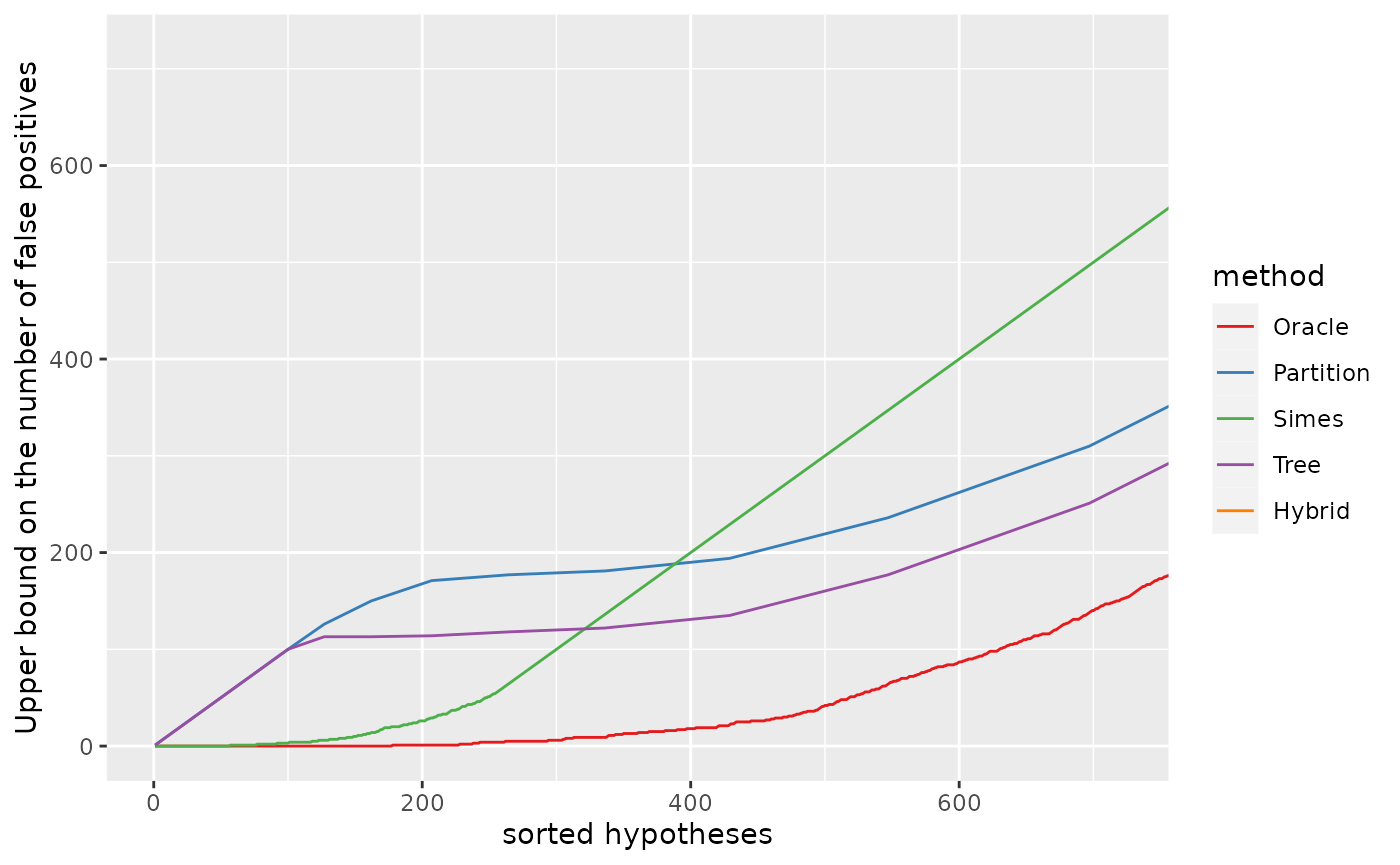
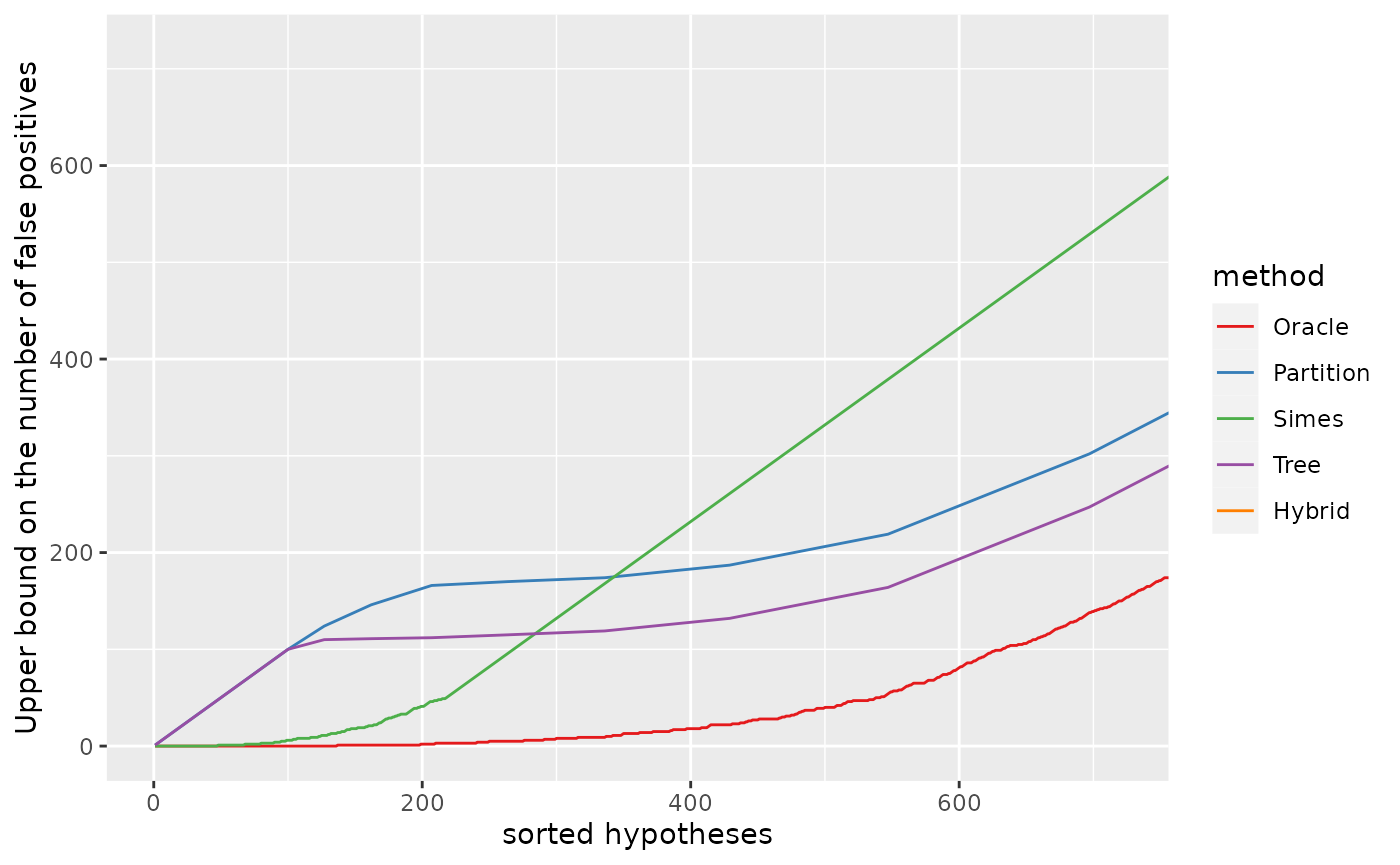
Built site for sansSouci: 0.12.4@8a14cd8

diff --git a/articles/post-hoc_differential-expression_RNAseq.html b/articles/post-hoc_differential-expression_RNAseq.html
@@ -170,9 +170,9 @@
 <div class="sourceCode" id="cb8"><pre class="downlit sourceCode r">
 <code class="sourceCode R"><span class="va">conf_bounds</span> <span class="op">&lt;-</span> <span class="fu"><a href="https://rdrr.io/r/base/lapply.html">lapply</a></span><span class="op">(</span><span class="va">resList</span>, <span class="va">predict</span>, all <span class="op">=</span> <span class="cn">TRUE</span><span class="op">)</span>
 <span class="va">cols</span> <span class="op">&lt;-</span> <span class="fu"><a href="https://rdrr.io/r/base/c.html">c</a></span><span class="op">(</span><span class="st">"black"</span>, <span class="st">"darkgray"</span><span class="op">)</span>
-<span class="fu"><a href="../reference/plotConfCurve.html">plotConfCurve</a></span><span class="op">(</span><span class="va">conf_bounds</span>, xmax <span class="op">=</span> <span class="fl">5000</span>, cols <span class="op">=</span> <span class="va">cols</span><span class="op">)</span> <span class="op">+</span>
-  <span class="fu"><a href="https://ggplot2.tidyverse.org/reference/geom_path.html">geom_line</a></span><span class="op">(</span>size <span class="op">=</span> <span class="fl">1.5</span><span class="op">)</span></code></pre></div>
-<p><img src="post-hoc_differential-expression_RNAseq_files/figure-html/conf-env-plot-1.png" width="768"></p>
+<span class="va">p</span> <span class="op">&lt;-</span> <span class="fu"><a href="../reference/plotConfCurve.html">plotConfCurve</a></span><span class="op">(</span><span class="va">conf_bounds</span>, xmax <span class="op">=</span> <span class="fl">5000</span>, cols <span class="op">=</span> <span class="va">cols</span><span class="op">)</span> <span class="op">+</span> 
+  <span class="fu"><a href="https://ggplot2.tidyverse.org/reference/geom_path.html">geom_line</a></span><span class="op">(</span>size <span class="op">=</span> <span class="fl">1.5</span><span class="op">)</span>
+<span class="co"># ggsave(p, file = "conf-curve.pdf", width = 6, height = 4)</span></code></pre></div>
 <p>This plot can be interpreted as follows: among the 2000 most significant genes, the number of truly differentially expressed genes is at least 1682 (right panel). Equivalently, the FDP among these 2000 genes is at most 0.16 (left panel).</p>
 <p>The dashed gray curve is obtained by the parametric Simes method introduced by <span class="citation">Goeman and Solari (2011)</span>. The comparison between the two curves illustrates the gain in power obtained by using permutations methods to adapt to the dependence between genes. In this example, the parametric Simes method gives the following guarantees: among the 2000 most significant genes, the number of truly differentially expressed genes is at least 1437 (right panel). Equivalently, the FDP among these 2000 genes is at most 0.29 (left panel).</p>
 <div id="differentially-expressed-genes" class="section level2">
@@ -191,11 +191,9 @@
 <span class="va">size</span> <span class="op">&lt;-</span> <span class="fl">1.5</span>
 <span class="va">p</span> <span class="op">&lt;-</span> <span class="fu"><a href="../reference/plotConfCurve.html">plotConfCurve</a></span><span class="op">(</span><span class="va">FDP</span>, xmax <span class="op">=</span> <span class="fl">2.5</span><span class="op">*</span><span class="va">n_DEG</span>, col <span class="op">=</span> <span class="va">cols</span><span class="op">)</span> <span class="op">+</span>
   <span class="fu"><a href="https://ggplot2.tidyverse.org/reference/geom_abline.html">geom_hline</a></span><span class="op">(</span>yintercept <span class="op">=</span> <span class="va">q</span>, linetype <span class="op">=</span> <span class="st">"dashed"</span>, size <span class="op">=</span> <span class="va">size</span><span class="op">)</span> <span class="op">+</span>
-  <span class="fu"><a href="https://ggplot2.tidyverse.org/reference/geom_abline.html">geom_vline</a></span><span class="op">(</span>xintercept <span class="op">=</span> <span class="va">n_DEG</span>, linetype <span class="op">=</span> <span class="st">"dotted"</span>, col <span class="op">=</span> <span class="va">cols</span>, size <span class="op">=</span> <span class="va">size</span><span class="op">)</span>
-<span class="va">p</span> <span class="op">+</span> <span class="fu"><a href="https://ggplot2.tidyverse.org/reference/geom_path.html">geom_line</a></span><span class="op">(</span>size <span class="op">=</span> <span class="va">size</span><span class="op">)</span></code></pre></div>
-<p><img src="post-hoc_differential-expression_RNAseq_files/figure-html/post-hoc-FDP-control-1.png" width="768"></p>
-<div class="sourceCode" id="cb10"><pre class="downlit sourceCode r">
-<code class="sourceCode R"><span class="fu"><a href="https://ggplot2.tidyverse.org/reference/ggsave.html">ggsave</a></span><span class="op">(</span><span class="va">p</span>, file <span class="op">=</span> <span class="st">"conf-curve.pdf"</span>, width <span class="op">=</span> <span class="fl">6</span>, height <span class="op">=</span> <span class="fl">4</span><span class="op">)</span></code></pre></div>
+  <span class="fu"><a href="https://ggplot2.tidyverse.org/reference/geom_abline.html">geom_vline</a></span><span class="op">(</span>xintercept <span class="op">=</span> <span class="va">n_DEG</span>, linetype <span class="op">=</span> <span class="st">"dotted"</span>, col <span class="op">=</span> <span class="va">cols</span>, size <span class="op">=</span> <span class="va">size</span><span class="op">)</span> <span class="op">+</span> 
+  <span class="fu"><a href="https://ggplot2.tidyverse.org/reference/geom_path.html">geom_line</a></span><span class="op">(</span>size <span class="op">=</span> <span class="va">size</span><span class="op">)</span>
+<span class="co"># ggsave(p, file = "conf-curve_DEG.pdf", width = 6, height = 4)</span></code></pre></div>
 <p>Using <span class="math inline">\(q = 0.1\)</span>, we obtain 1597 differentially expressed genes. Note that this gene list has a clear statistical interpretation: with probability <span class="math inline">\(1-\alpha = 0.9\)</span>, the proportion of false positives (that is, genes that are called DE by mistake) is less than <span class="math inline">\(q = 0.1\)</span>.</p>
 <p>The above example also illustrates the increase in power obtained by calibration, since the parametric Simes method yields a subset of “only” 1157 genes called differentially expressed (with identical statistical guarantees).</p>
 </div>
@@ -203,7 +201,7 @@
 <h2 class="hasAnchor">
 <a href="#comparison-to-fdr-control" class="anchor"></a>Comparison to FDR control</h2>
 <p>We argue that ensuring <em>with high probability</em> that the FDP is less than some user-defined budget, as done above, is more interpretable than the widely used False Discovery Rate (FDR) control introduced by <span class="citation">Benjamini and Hochberg (1995)</span>. Indeed, FDR control guarantees that the <em>expected</em> (or average) FDP among DE genes is less than some user-defined FDR budget. However, <strong>the true FDP may well be far from its expected value</strong>, especially since the variability of the FDP is known to increase with the degree of dependence between genes.</p>
-<div class="sourceCode" id="cb11"><pre class="downlit sourceCode r">
+<div class="sourceCode" id="cb10"><pre class="downlit sourceCode r">
 <code class="sourceCode R"><span class="va">adjp</span> <span class="op">&lt;-</span> <span class="fu"><a href="https://rdrr.io/r/stats/p.adjust.html">p.adjust</a></span><span class="op">(</span><span class="fu"><a href="../reference/all-generics.html">pValues</a></span><span class="op">(</span><span class="va">res</span><span class="op">)</span>, method <span class="op">=</span> <span class="st">"BH"</span><span class="op">)</span>
 <span class="va">FDR_level</span> <span class="op">&lt;-</span> <span class="fl">0.05</span>
 <span class="va">n_BH</span> <span class="op">&lt;-</span> <span class="fu"><a href="https://rdrr.io/r/base/sum.html">sum</a></span><span class="op">(</span><span class="va">adjp</span> <span class="op">&lt;</span> <span class="va">FDR_level</span><span class="op">)</span>
@@ -217,7 +215,7 @@
 <a href="#volcano-plots" class="anchor"></a>Volcano plots</h1>
 <!-- For an interactive volcano plot, see the [volcano plot shiny application]( https://shiny-iidea-sanssouci.apps.math.cnrs.fr/). -->
 <p>A classical practice in gene expression studies is to define DE genes as those passing both a significance filter (small <span class="math inline">\(p\)</span>-value) and an effect size or “fold change” filter. Here, the fold change of a gene is defined as the difference between the expression medians (on the log scale) of the two groups compared. This double selection by <span class="math inline">\(p\)</span>-value and fold change corresponds to two sets of genes, with positive/negative fold change, which can be represented in the following plot:</p>
-<div class="sourceCode" id="cb12"><pre class="downlit sourceCode r">
+<div class="sourceCode" id="cb11"><pre class="downlit sourceCode r">
 <code class="sourceCode R"><span class="fu"><a href="../reference/volcanoPlot.html">volcanoPlot</a></span><span class="op">(</span><span class="va">res</span>, p <span class="op">=</span> <span class="fl">1e-4</span>, r <span class="op">=</span> <span class="fl">0.5</span><span class="op">)</span></code></pre></div>
 <p><img src="post-hoc_differential-expression_RNAseq_files/figure-html/volcano-1.png" width="768"></p>
 <p>This type of plot is called a “volcano plot” <span class="citation">Cui and Churchill (2003)</span>. Post hoc inference makes it possible to obtain statistical guarantees on selections such as the ones represented in the above figure.</p>
@@ -225,7 +223,7 @@
 <h2 class="hasAnchor">
 <a href="#custom-statistics-example-using-limma-voom" class="anchor"></a>Custom statistics: example using limma-voom</h2>
 <p>Post hoc bounds can be calculated for any gene selection. In particular, even if Wilcoxon tests have been performed <em>for the calibration of the post hoc bounds</em>, it is possible to rely on other statistics to <em>select genes of interest</em>. In this section, we illustrate this idea by making a volcano plot based on the <span class="math inline">\(p\)</span>-values and log-fold changes obtained from the limma-voom method of <span class="citation">Law et al. (2014)</span> implemented in the <code>limma</code> package (<span class="citation">Ritchie et al. (2015)</span>). The next code chunk is adapted from the vignette of the <code>limma</code> package:</p>
-<div class="sourceCode" id="cb13"><pre class="downlit sourceCode r">
+<div class="sourceCode" id="cb12"><pre class="downlit sourceCode r">
 <code class="sourceCode R"><span class="kw"><a href="https://rdrr.io/r/base/library.html">library</a></span><span class="op">(</span><span class="va"><a href="http://bioinf.wehi.edu.au/limma">limma</a></span><span class="op">)</span>
 <span class="kw"><a href="https://rdrr.io/r/base/library.html">library</a></span><span class="op">(</span><span class="va"><a href="http://bioinf.wehi.edu.au/edgeR">edgeR</a></span><span class="op">)</span>
 <span class="va">d</span> <span class="op">&lt;-</span> <span class="fu"><a href="https://rdrr.io/pkg/edgeR/man/DGEList.html">DGEList</a></span><span class="op">(</span><span class="va">Y</span><span class="op">)</span>
@@ -242,14 +240,14 @@
 <span class="va">res_eb</span> <span class="op">&lt;-</span> <span class="fu"><a href="https://rdrr.io/pkg/limma/man/ebayes.html">eBayes</a></span><span class="op">(</span><span class="va">res_fit</span><span class="op">)</span>
 <span class="va">TT</span> <span class="op">&lt;-</span> <span class="fu"><a href="https://rdrr.io/pkg/limma/man/toptable.html">topTable</a></span><span class="op">(</span><span class="va">res_eb</span>, sort.by <span class="op">=</span> <span class="st">"none"</span>, number <span class="op">=</span> <span class="cn">Inf</span><span class="op">)</span></code></pre></div>
 <p>The next plot suggests that the <span class="math inline">\(p\)</span>-values obtained from limma-voom and from Wilcoxon tests are consistent.</p>
-<div class="sourceCode" id="cb14"><pre class="downlit sourceCode r">
+<div class="sourceCode" id="cb13"><pre class="downlit sourceCode r">
 <code class="sourceCode R"><span class="va">df</span> <span class="op">&lt;-</span> <span class="fu"><a href="https://rdrr.io/r/base/data.frame.html">data.frame</a></span><span class="op">(</span>wilcox <span class="op">=</span> <span class="op">-</span><span class="fu"><a href="https://rdrr.io/r/base/Log.html">log10</a></span><span class="op">(</span><span class="fu"><a href="../reference/all-generics.html">pValues</a></span><span class="op">(</span><span class="va">res</span><span class="op">)</span><span class="op">)</span>, limma <span class="op">=</span> <span class="op">-</span><span class="fu"><a href="https://rdrr.io/r/base/Log.html">log10</a></span><span class="op">(</span><span class="va">TT</span><span class="op">$</span><span class="va">P.Value</span><span class="op">)</span><span class="op">)</span>
 <span class="fu"><a href="https://ggplot2.tidyverse.org/reference/ggplot.html">ggplot</a></span><span class="op">(</span><span class="va">df</span>, <span class="fu"><a href="https://ggplot2.tidyverse.org/reference/aes.html">aes</a></span><span class="op">(</span>x <span class="op">=</span> <span class="va">limma</span>, y <span class="op">=</span> <span class="va">wilcox</span><span class="op">)</span><span class="op">)</span> <span class="op">+</span> 
   <span class="fu"><a href="https://ggplot2.tidyverse.org/reference/geom_point.html">geom_point</a></span><span class="op">(</span>color <span class="op">=</span> <span class="st">"#10101010"</span><span class="op">)</span> <span class="op">+</span> 
   <span class="fu"><a href="https://ggplot2.tidyverse.org/reference/labs.html">ggtitle</a></span><span class="op">(</span><span class="st">"p-values (log-scale)"</span><span class="op">)</span></code></pre></div>
 <p><img src="post-hoc_differential-expression_RNAseq_files/figure-html/compare-p-values-1.png" width="768"></p>
 <p>Finally we obtain the volcano plot based on limma statistics.</p>
-<div class="sourceCode" id="cb15"><pre class="downlit sourceCode r">
+<div class="sourceCode" id="cb14"><pre class="downlit sourceCode r">
 <code class="sourceCode R"><span class="fu"><a href="../reference/volcanoPlot.html">volcanoPlot</a></span><span class="op">(</span><span class="va">res</span>, 
             fold_changes <span class="op">=</span> <span class="va">TT</span><span class="op">$</span><span class="va">logFC</span>, 
             p_values <span class="op">=</span> <span class="va">TT</span><span class="op">$</span><span class="va">P.Value</span>, 
@@ -260,7 +258,7 @@
 <div id="session-information" class="section level1">
 <h1 class="hasAnchor">
 <a href="#session-information" class="anchor"></a>Session information</h1>
-<div class="sourceCode" id="cb16"><pre class="downlit sourceCode r">
+<div class="sourceCode" id="cb15"><pre class="downlit sourceCode r">
 <code class="sourceCode R"><span class="fu"><a href="https://rdrr.io/r/utils/sessionInfo.html">sessionInfo</a></span><span class="op">(</span><span class="op">)</span>
 <span class="co">#&gt; R version 4.1.2 (2021-11-01)</span>
 <span class="co">#&gt; Platform: x86_64-pc-linux-gnu (64-bit)</span>
@@ -301,7 +299,7 @@
 <h1 class="hasAnchor">
 <a href="#reproducibility" class="anchor"></a>Reproducibility</h1>
 <p>To re-build this vignette from its source, use:</p>
-<div class="sourceCode" id="cb17"><pre class="downlit sourceCode r">
+<div class="sourceCode" id="cb16"><pre class="downlit sourceCode r">
 <code class="sourceCode R"><span class="fu">rmarkdown</span><span class="fu">::</span><span class="fu"><a href="https://pkgs.rstudio.com/rmarkdown/reference/render.html">render</a></span><span class="op">(</span><span class="st">"post-hoc_differential-expression_RNAseq.Rmd"</span>, output_format <span class="op">=</span> <span class="st">"pdf_document"</span><span class="op">)</span>
 <span class="co"># To keep intermediate files, add option 'clean = FALSE'</span>
 <span class="fu">rmarkdown</span><span class="fu">::</span><span class="fu"><a href="https://pkgs.rstudio.com/rmarkdown/reference/render.html">render</a></span><span class="op">(</span><span class="st">"post-hoc_differential-expression_RNAseq.Rmd"</span>, output_format <span class="op">=</span> <span class="st">"html_document"</span><span class="op">)</span></code></pre></div>

diff --git a/reference/rowWelchTests.html b/reference/rowWelchTests.html
@@ -217,7 +217,7 @@ alternative approach. Biometrika, <em>38</em>, 330-336</p>
 <span class='r-in'>   <span class='fu'><a href='https://rdrr.io/r/stats/t.test.html'>t.test</a></span><span class='op'>(</span><span class='va'>x</span><span class='op'>[</span><span class='va'>categ</span><span class='op'>==</span><span class='fl'>1</span><span class='op'>]</span>, <span class='va'>x</span><span class='op'>[</span><span class='va'>categ</span><span class='op'>==</span><span class='fl'>0</span><span class='op'>]</span>, alternative <span class='op'>=</span> <span class='st'>"greater"</span><span class='op'>)</span><span class='op'>$</span><span class='va'>p.value</span></span>
 <span class='r-in'><span class='op'>}</span><span class='op'>)</span><span class='op'>)</span></span>
 <span class='r-out co'><span class='r-pr'>#&gt;</span>    user  system elapsed </span>
-<span class='r-out co'><span class='r-pr'>#&gt;</span>   0.042   0.000   0.043 </span>
+<span class='r-out co'><span class='r-pr'>#&gt;</span>   0.078   0.000   0.078 </span>
 <span class='r-in'><span class='fu'><a href='https://rdrr.io/r/base/all.html'>all</a></span><span class='op'>(</span><span class='fu'><a href='https://rdrr.io/r/base/MathFun.html'>abs</a></span><span class='op'>(</span><span class='va'>fwt</span><span class='op'>$</span><span class='va'>p.value</span><span class='op'>-</span><span class='va'>pwt</span><span class='op'>)</span> <span class='op'>&lt;</span> <span class='fl'>1e-10</span><span class='op'>)</span>  <span class='co'>## same results</span></span>
 <span class='r-out co'><span class='r-pr'>#&gt;</span> [1] TRUE</span>
 <span class='r-in'></span>
@@ -226,7 +226,7 @@ alternative approach. Biometrika, <em>38</em>, 330-336</p>
 <span class='r-in'><span class='va'>categ_perm</span> <span class='op'>&lt;-</span> <span class='fu'><a href='https://rdrr.io/r/base/lapply.html'>replicate</a></span><span class='op'>(</span><span class='va'>B</span>, <span class='fu'><a href='https://rdrr.io/r/base/sample.html'>sample</a></span><span class='op'>(</span><span class='va'>categ</span><span class='op'>)</span><span class='op'>)</span></span>
 <span class='r-in'><span class='fu'><a href='https://rdrr.io/r/base/system.time.html'>system.time</a></span><span class='op'>(</span><span class='va'>fwt_perm</span> <span class='op'>&lt;-</span> <span class='fu'>rowWelchTests</span><span class='op'>(</span><span class='va'>mat</span>, <span class='va'>categ_perm</span>, alternative <span class='op'>=</span> <span class='st'>"greater"</span><span class='op'>)</span><span class='op'>)</span></span>
 <span class='r-out co'><span class='r-pr'>#&gt;</span>    user  system elapsed </span>
-<span class='r-out co'><span class='r-pr'>#&gt;</span>   0.015   0.000   0.016 </span>
+<span class='r-out co'><span class='r-pr'>#&gt;</span>   0.019   0.000   0.019 </span>
 <span class='r-in'><span class='fu'><a href='https://rdrr.io/r/utils/str.html'>str</a></span><span class='op'>(</span><span class='va'>fwt_perm</span><span class='op'>)</span></span>
 <span class='r-out co'><span class='r-pr'>#&gt;</span> List of 4</span>
 <span class='r-out co'><span class='r-pr'>#&gt;</span>  $ statistic: num [1:300, 1:100] -0.65 -1.26 -1.73 -2.8 0.75 ...</span>

diff --git a/reference/plotConfCurve.html b/reference/plotConfCurve.html
@@ -174,7 +174,6 @@
     <pre class="examples"><span class='r-in'><span class='co'># Generate Gaussian data and perform multiple tests</span></span>
 <span class='r-in'><span class='va'>obj</span> <span class='op'>&lt;-</span> <span class='fu'><a href='SansSouciSim.html'>SansSouciSim</a></span><span class='op'>(</span>m <span class='op'>=</span> <span class='fl'>502</span>, rho <span class='op'>=</span> <span class='fl'>0.5</span>, n <span class='op'>=</span> <span class='fl'>100</span>, pi0 <span class='op'>=</span> <span class='fl'>0.8</span>, SNR <span class='op'>=</span> <span class='fl'>3</span>, prob <span class='op'>=</span> <span class='fl'>0.5</span><span class='op'>)</span></span>
 <span class='r-in'><span class='va'>res</span> <span class='op'>&lt;-</span> <span class='fu'><a href='https://generics.r-lib.org/reference/fit.html'>fit</a></span><span class='op'>(</span><span class='va'>obj</span>, B <span class='op'>=</span> <span class='fl'>100</span>, alpha <span class='op'>=</span> <span class='fl'>0.1</span><span class='op'>)</span></span>
-<span class='r-wrn co'><span class='r-pr'>#&gt;</span> <span class='warning'>Warning: </span>the condition has length &gt; 1 and only the first element will be used</span>
 <span class='r-in'><span class='va'>cb</span> <span class='op'>&lt;-</span> <span class='fu'><a href='https://rdrr.io/r/stats/predict.html'>predict</a></span><span class='op'>(</span><span class='va'>res</span>, all <span class='op'>=</span> <span class='cn'>TRUE</span><span class='op'>)</span></span>
 <span class='r-in'><span class='fu'>plotConfCurve</span><span class='op'>(</span><span class='va'>cb</span>, xmax <span class='op'>=</span> <span class='fl'>200</span><span class='op'>)</span>  <span class='co'>## equivalent to 'plot(res, xmax = 200)'</span></span>
 <span class='r-plt img'><img src='plotConfCurve-1.png' alt='' width='700' height='433' /></span>

diff --git a/reference/SansSouci.html b/reference/SansSouci.html
@@ -183,7 +183,6 @@ used in simulations.</p></td>
 <span class='r-in'><span class='va'>a</span> <span class='op'>&lt;-</span> <span class='fu'>SansSouci</span><span class='op'>(</span>Y <span class='op'>=</span> <span class='va'>expr_ALL</span>, groups <span class='op'>=</span> <span class='va'>groups</span><span class='op'>)</span></span>
 <span class='r-in'></span>
 <span class='r-in'><span class='va'>res</span> <span class='op'>&lt;-</span> <span class='fu'><a href='https://generics.r-lib.org/reference/fit.html'>fit</a></span><span class='op'>(</span><span class='va'>a</span>, B <span class='op'>=</span> <span class='fl'>100</span>, alpha <span class='op'>=</span> <span class='fl'>0.1</span><span class='op'>)</span></span>
-<span class='r-wrn co'><span class='r-pr'>#&gt;</span> <span class='warning'>Warning: </span>the condition has length &gt; 1 and only the first element will be used</span>
 <span class='r-in'><span class='fu'><a href='https://rdrr.io/r/graphics/plot.default.html'>plot</a></span><span class='op'>(</span><span class='va'>res</span>, xmax <span class='op'>=</span> <span class='fl'>500</span><span class='op'>)</span></span>
 <span class='r-plt img'><img src='SansSouci-1.png' alt='' width='700' height='433' /></span>
 <span class='r-in'><span class='va'>res_beta</span> <span class='op'>&lt;-</span> <span class='fu'><a href='https://generics.r-lib.org/reference/fit.html'>fit</a></span><span class='op'>(</span><span class='va'>res</span>, B <span class='op'>=</span> <span class='fl'>100</span>, alpha <span class='op'>=</span> <span class='fl'>0.1</span>, family<span class='op'>=</span><span class='st'>"Beta"</span>, K<span class='op'>=</span><span class='fl'>10</span><span class='op'>)</span></span>

diff --git a/reference/fit.SansSouci.html b/reference/fit.SansSouci.html
@@ -239,7 +239,6 @@ reference family. Defaults to m</p></td>
     <pre class="examples"><span class='r-in'><span class='co'># Generate Gaussian data and perform multiple tests</span></span>
 <span class='r-in'><span class='va'>obj</span> <span class='op'>&lt;-</span> <span class='fu'><a href='SansSouciSim.html'>SansSouciSim</a></span><span class='op'>(</span>m <span class='op'>=</span> <span class='fl'>502</span>, rho <span class='op'>=</span> <span class='fl'>0.5</span>, n <span class='op'>=</span> <span class='fl'>100</span>, pi0 <span class='op'>=</span> <span class='fl'>0.8</span>, SNR <span class='op'>=</span> <span class='fl'>3</span>, prob <span class='op'>=</span> <span class='fl'>0.5</span><span class='op'>)</span></span>
 <span class='r-in'><span class='va'>res</span> <span class='op'>&lt;-</span> <span class='fu'><a href='https://generics.r-lib.org/reference/fit.html'>fit</a></span><span class='op'>(</span><span class='va'>obj</span>, B <span class='op'>=</span> <span class='fl'>100</span>, alpha <span class='op'>=</span> <span class='fl'>0.1</span><span class='op'>)</span></span>
-<span class='r-wrn co'><span class='r-pr'>#&gt;</span> <span class='warning'>Warning: </span>the condition has length &gt; 1 and only the first element will be used</span>
 <span class='r-in'></span>
 <span class='r-in'><span class='co'># confidence curve</span></span>
 <span class='r-in'><span class='fu'><a href='https://rdrr.io/r/graphics/plot.default.html'>plot</a></span><span class='op'>(</span><span class='va'>res</span><span class='op'>)</span></span>

diff --git a/reference/predict.SansSouci.html b/reference/predict.SansSouci.html
@@ -204,7 +204,6 @@ computed, among:</p><ul>
 <span class='r-in'><span class='co'># Generate Gaussian data and perform multiple tests</span></span>
 <span class='r-in'><span class='va'>obj</span> <span class='op'>&lt;-</span> <span class='fu'><a href='SansSouciSim.html'>SansSouciSim</a></span><span class='op'>(</span>m <span class='op'>=</span> <span class='fl'>502</span>, rho <span class='op'>=</span> <span class='fl'>0.5</span>, n <span class='op'>=</span> <span class='fl'>100</span>, pi0 <span class='op'>=</span> <span class='fl'>0.8</span>, SNR <span class='op'>=</span> <span class='fl'>3</span>, prob <span class='op'>=</span> <span class='fl'>0.5</span><span class='op'>)</span></span>
 <span class='r-in'><span class='va'>res</span> <span class='op'>&lt;-</span> <span class='fu'><a href='https://generics.r-lib.org/reference/fit.html'>fit</a></span><span class='op'>(</span><span class='va'>obj</span>, B <span class='op'>=</span> <span class='fl'>100</span>, alpha <span class='op'>=</span> <span class='fl'>0.1</span><span class='op'>)</span></span>
-<span class='r-wrn co'><span class='r-pr'>#&gt;</span> <span class='warning'>Warning: </span>the condition has length &gt; 1 and only the first element will be used</span>
 <span class='r-in'></span>
 <span class='r-in'><span class='co'># post hoc bound on the set of all hypotheses</span></span>
 <span class='r-in'><span class='fu'><a href='https://rdrr.io/r/stats/predict.html'>predict</a></span><span class='op'>(</span><span class='va'>res</span><span class='op'>)</span></span>

diff --git a/reference/plot.SansSouci.html b/reference/plot.SansSouci.html
@@ -176,7 +176,6 @@
     <pre class="examples"><span class='r-in'><span class='co'># Generate Gaussian data and perform multiple tests</span></span>
 <span class='r-in'><span class='va'>obj</span> <span class='op'>&lt;-</span> <span class='fu'><a href='SansSouciSim.html'>SansSouciSim</a></span><span class='op'>(</span>m <span class='op'>=</span> <span class='fl'>502</span>, rho <span class='op'>=</span> <span class='fl'>0.5</span>, n <span class='op'>=</span> <span class='fl'>100</span>, pi0 <span class='op'>=</span> <span class='fl'>0.8</span>, SNR <span class='op'>=</span> <span class='fl'>3</span>, prob <span class='op'>=</span> <span class='fl'>0.5</span><span class='op'>)</span></span>
 <span class='r-in'><span class='va'>res</span> <span class='op'>&lt;-</span> <span class='fu'><a href='https://generics.r-lib.org/reference/fit.html'>fit</a></span><span class='op'>(</span><span class='va'>obj</span>, B <span class='op'>=</span> <span class='fl'>100</span>, alpha <span class='op'>=</span> <span class='fl'>0.1</span><span class='op'>)</span></span>
-<span class='r-wrn co'><span class='r-pr'>#&gt;</span> <span class='warning'>Warning: </span>the condition has length &gt; 1 and only the first element will be used</span>
 <span class='r-in'></span>
 <span class='r-in'><span class='co'># confidence curve</span></span>
 <span class='r-in'><span class='fu'><a href='https://rdrr.io/r/graphics/plot.default.html'>plot</a></span><span class='op'>(</span><span class='va'>res</span><span class='op'>)</span></span>

diff --git a/reference/volcanoPlot.html b/reference/volcanoPlot.html
@@ -220,7 +220,6 @@
 <span class='r-in'><span class='va'>a</span> <span class='op'>&lt;-</span> <span class='fu'><a href='SansSouci.html'>SansSouci</a></span><span class='op'>(</span>Y <span class='op'>=</span> <span class='va'>expr_ALL</span>, groups <span class='op'>=</span> <span class='va'>groups</span><span class='op'>)</span></span>
 <span class='r-in'></span>
 <span class='r-in'><span class='va'>res</span> <span class='op'>&lt;-</span> <span class='fu'><a href='https://generics.r-lib.org/reference/fit.html'>fit</a></span><span class='op'>(</span><span class='va'>a</span>, B <span class='op'>=</span> <span class='fl'>100</span>, alpha <span class='op'>=</span> <span class='fl'>0.1</span><span class='op'>)</span></span>
-<span class='r-wrn co'><span class='r-pr'>#&gt;</span> <span class='warning'>Warning: </span>the condition has length &gt; 1 and only the first element will be used</span>
 <span class='r-in'><span class='fu'>volcanoPlot</span><span class='op'>(</span><span class='va'>res</span>, q <span class='op'>=</span> <span class='fl'>0.2</span>, r <span class='op'>=</span> <span class='fl'>0.2</span>, ylim <span class='op'>=</span> <span class='fu'><a href='https://rdrr.io/r/base/c.html'>c</a></span><span class='op'>(</span><span class='fl'>0</span>, <span class='fl'>4</span><span class='op'>)</span><span class='op'>)</span></span>
 <span class='r-plt img'><img src='volcanoPlot-1.png' alt='' width='700' height='433' /></span>
 </pre>

diff --git a/articles/jointErrorRateCalibration_simulations.html b/articles/jointErrorRateCalibration_simulations.html
@@ -172,7 +172,7 @@
 ##      (of size:   K=500)
 ## 
 ## Output:
-##  Calibration parameter:  lambda=0.2258685</code></pre>
+##  Calibration parameter:  lambda=0.3125924</code></pre>
 <p>The output of the calibration is the following <code>SansSouci</code> object. In particular:</p>
 <ul>
 <li>
@@ -195,7 +195,7 @@
 <div class="sourceCode" id="cb7"><pre class="downlit sourceCode r">
 <code class="sourceCode R"><span class="va">cal</span><span class="op">$</span><span class="va">output</span><span class="op">$</span><span class="va">lambda</span></code></pre></div>
 <pre><code>##       20% 
-## 0.2258685</code></pre>
+## 0.3125924</code></pre>
 <div class="sourceCode" id="cb9"><pre class="downlit sourceCode r">
 <code class="sourceCode R"><span class="va">cal</span><span class="op">$</span><span class="va">output</span><span class="op">$</span><span class="va">lambda</span> <span class="op">&gt;</span> <span class="va">alpha</span></code></pre></div>
 <pre><code>##  20% 
@@ -260,7 +260,7 @@
 ##      (of size:   K=500)
 ## 
 ## Output:
-##  Calibration parameter:  lambda=0.2559436</code></pre>
+##  Calibration parameter:  lambda=0.3212641</code></pre>
 <p>Again we expect <span class="math inline">\(\lambda &gt; \alpha\)</span>.</p>
 <div id="confidence-curves" class="section level3">
 <h3 class="hasAnchor">

diff --git a/reference/SansSouci-methods.html b/reference/SansSouci-methods.html
@@ -224,7 +224,6 @@ thresholds: get thresholds" />
 <span class='r-out co'><span class='r-pr'>#&gt;</span> NULL</span>
 <span class='r-in'></span>
 <span class='r-in'><span class='va'>res</span> <span class='op'>&lt;-</span> <span class='fu'><a href='https://generics.r-lib.org/reference/fit.html'>fit</a></span><span class='op'>(</span><span class='va'>a</span>, B <span class='op'>=</span> <span class='fl'>100</span>, alpha <span class='op'>=</span> <span class='fl'>0.1</span><span class='op'>)</span></span>
-<span class='r-wrn co'><span class='r-pr'>#&gt;</span> <span class='warning'>Warning: </span>the condition has length &gt; 1 and only the first element will be used</span>
 <span class='r-in'><span class='fu'><a href='all-generics.html'>label</a></span><span class='op'>(</span><span class='va'>res</span><span class='op'>)</span></span>
 <span class='r-out co'><span class='r-pr'>#&gt;</span> [1] "Simes"</span>
 <span class='r-in'><span class='fu'><a href='https://rdrr.io/r/base/print.html'>print</a></span><span class='op'>(</span><span class='va'>res</span><span class='op'>)</span></span>

diff --git a/articles/Simes_equi-correlation.html b/articles/Simes_equi-correlation.html
@@ -179,19 +179,19 @@
 <tbody>
 <tr class="odd">
 <td align="left">Achieved level/target level</td>
-<td align="right">0.97</td>
-<td align="right">0.93</td>
-<td align="right">0.71</td>
-<td align="right">0.46</td>
-<td align="right">0.43</td>
+<td align="right">0.94</td>
+<td align="right">0.94</td>
+<td align="right">0.72</td>
+<td align="right">0.38</td>
+<td align="right">0.44</td>
 </tr>
 <tr class="even">
 <td align="left">Standard error</td>
 <td align="right">0.06</td>
 <td align="right">0.06</td>
 <td align="right">0.06</td>
-<td align="right">0.05</td>
 <td align="right">0.04</td>
+<td align="right">0.05</td>
 </tr>
 </tbody>
 </table>
